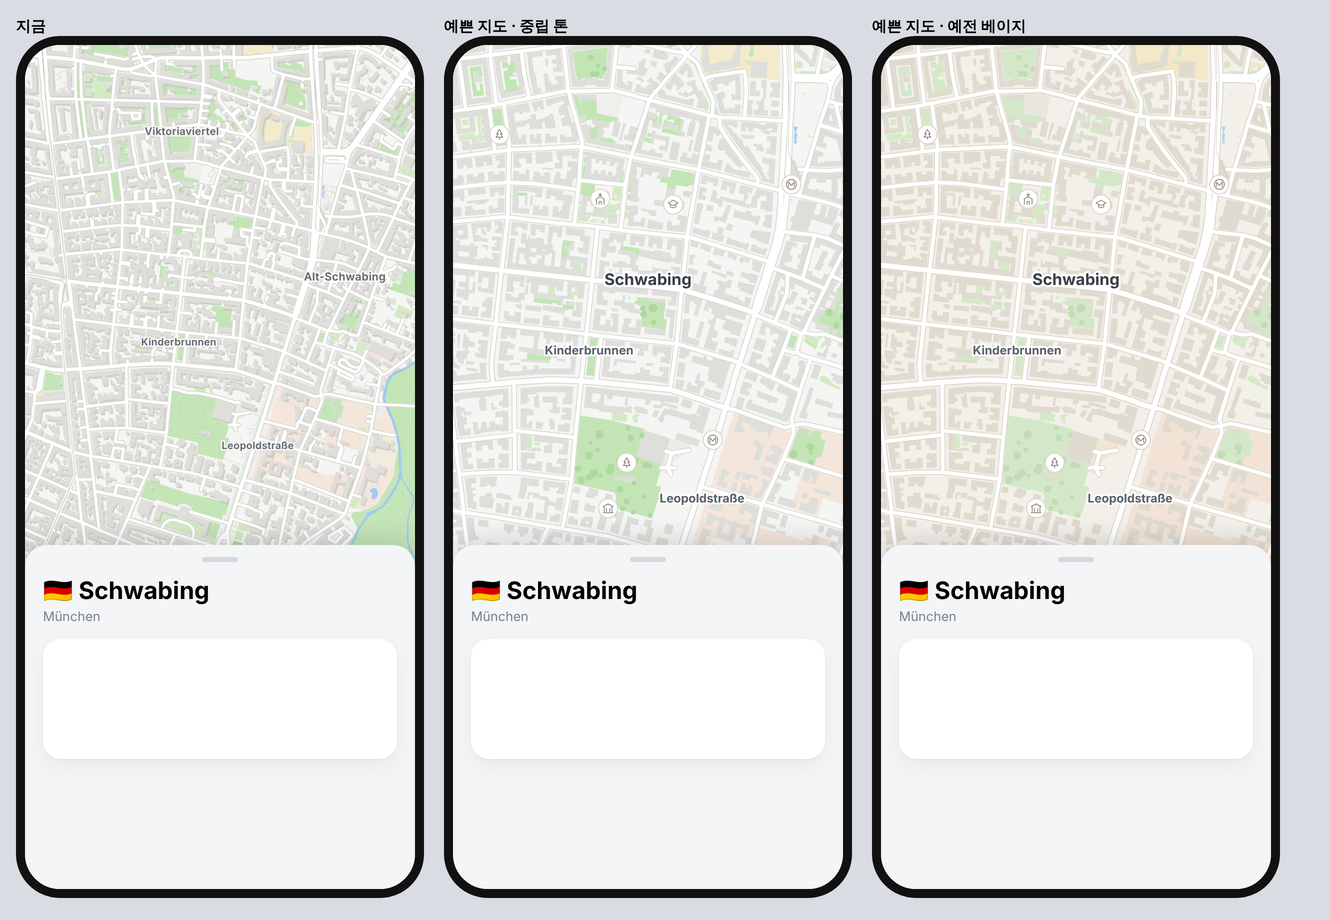
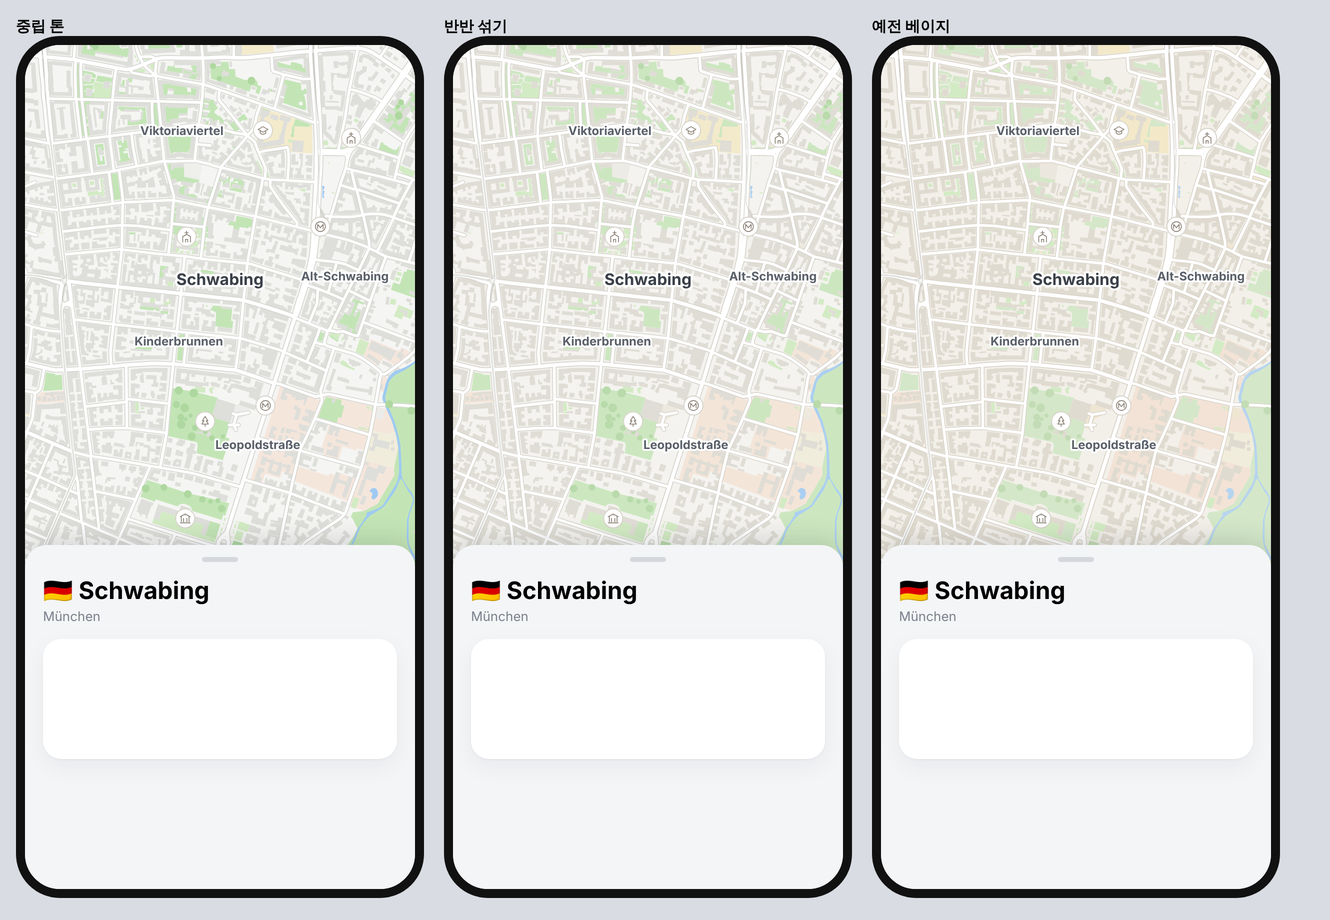
지도 시안: 예쁜 지도 확대 되돌림, 중립 톤과 예전 베이지 반반 섞기(PAL=mix)
Claude-Session: https://claude.ai/code/session_01TBUyc4nvbfrUF2uL1hRtAL

diff --git a/docs/mockups/phone-map/osm/osmmap.js b/docs/mockups/phone-map/osm/osmmap.js
@@ -21,6 +21,9 @@ const PALS = {
     label: '#66594f', foot: '#e2d7cc', resi: '#eee6dc', shop: '#f0dccd', works: '#e3ded8', railyard: '#e4ded7', school: '#efe2c0', plaza: '#ebe0d3', mark: '#d0b19b' } };
 // ROAD=1|1.5|2: softer yellow for the big roads
 if (PALS.neutral && process.env.ROAD) Object.assign(PALS.neutral, process.env.ROAD === '2' ? { major: '#fcedc6', majorEdge: '#ead8a8' } : process.env.ROAD === '1.5' ? { major: '#fce8b4', majorEdge: '#e9d298' } : { major: '#fce3a2', majorEdge: '#e9cd88' });
+// PAL=mix: halfway between the neutral tone and the old beige
+{ const hx = c => [1, 3, 5].map(i => parseInt(c.slice(i, i + 2), 16)), mixc = (a, b) => '#' + hx(a).map((v, i) => Math.round((v + hx(b)[i]) / 2).toString(16).padStart(2, '0')).join('');
+  PALS.mix = Object.fromEntries(Object.entries(PALS.neutral).map(([k2, v]) => [k2, C[k2] ? mixc(v, C[k2]) : v])); }
 if (PALS[process.env.PAL ?? 'neutral']) Object.assign(C, PALS[process.env.PAL ?? 'neutral']);   // 기본: 2 중립 밝은 톤 + B·C·D
 const d = JSON.parse(require('fs').readFileSync(src, 'utf8'));
 { const cv = src.replace(/\.json$/, '-cover.json'); if (require('fs').existsSync(cv)) { const seen = new Set(d.elements.map(e => e.type + e.id)); for (const e of JSON.parse(require('fs').readFileSync(cv, 'utf8')).elements) if (!seen.has(e.type + e.id)) d.elements.push(e); } }
@@ -31,7 +34,6 @@ if (FX.includes('C')) {
   let n = 0; for (const e of d.elements) if (e.tags && e.tags.building && e.geometry) { const g = e.geometry[0], x = (g.lon - lon0) * mx, y = (g.lat - lat0) * my; if (Math.abs(x) < 500 && Math.abs(y) < 500) n++; }
   span = Math.max(1000, Math.min(1550, 2600 - n * 1.1)); console.log('density', n, '→ span', Math.round(span));
 }
-if (process.env.STYLE === 'pretty') span *= 0.7;                 // closer, like the old maps: fewer, bigger blocks
 const W = 390, H = 560, k = W / span;                       // px per meter
 const P = (la, lo) => [W / 2 + (lo - lon0) * mx * k, H / 2 - (la - lat0) * my * k];
 const f = n => (Math.round(n * 10) / 10).toString();
